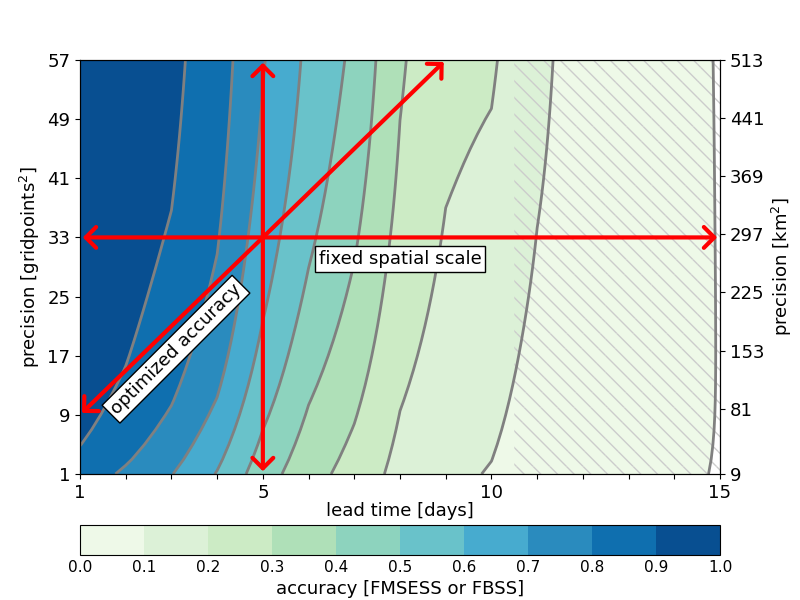
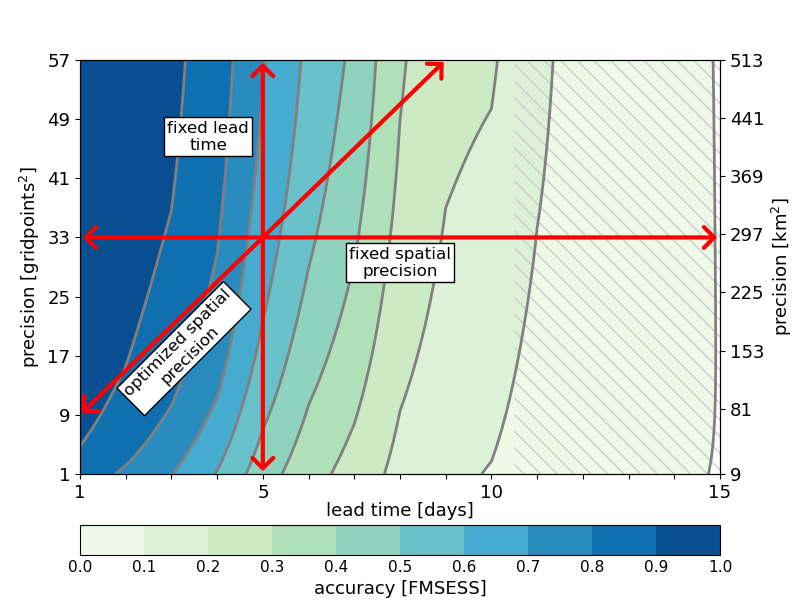
update

diff --git a/code/plot/plot-fig-05.py b/code/plot/plot-fig-05.py
@@ -76,11 +76,14 @@ ax.annotate("", xy=(1, 33), xytext=(15, 33),arrowprops=dict(arrowstyle="<->,head
 ax.annotate("", xy=(5, 1), xytext=(5, 57),arrowprops=dict(arrowstyle="<->,head_length=0.75,head_width=0.75",linewidth=3, color='red'))
 ax.annotate("", xy=(1, 9), xytext=(9, 57),arrowprops=dict(arrowstyle="<->,head_length=0.75,head_width=0.75",linewidth=3, color='red'))
 
-fig.text(0.5, 0.56, 'fixed spatial scale',horizontalalignment='center',bbox=dict(boxstyle='square,pad=.2',
-                                                                                facecolor='w', edgecolor='k'),color='k',fontsize=fontsize+2)
+fig.text(0.5, 0.54, 'fixed spatial\nprecision',horizontalalignment='center',
+         bbox=dict(boxstyle='square,pad=.2',facecolor='w', edgecolor='k'),color='k',fontsize=fontsize+1)
 
-fig.text(0.22, 0.31, 'optimized accuracy',rotation=45,horizontalalignment='center',bbox=dict(boxstyle='square,pad=.2',
-	                                                                        facecolor='w', edgecolor='k'),color='k',fontsize=fontsize+2)
+fig.text(0.23, 0.32,'optimized spatial\nprecision',rotation=45,
+         horizontalalignment='center',bbox=dict(boxstyle='square,pad=.2',facecolor='w', edgecolor='k'),color='k',fontsize=fontsize+1)
+
+fig.text(0.26, 0.75, 'fixed lead\ntime',horizontalalignment='center',
+         bbox=dict(boxstyle='square,pad=.2',facecolor='w', edgecolor='k'),color='k',fontsize=fontsize+1)
 
 fig.subplots_adjust(right=0.9, left=0.1,top=0.9,bottom=0.21)
 
@@ -88,7 +91,7 @@ cb1_ax = fig.add_axes([0.1, 0.075, 0.8, 0.05])
 cb1    = fig.colorbar(p1, cax=cb1_ax, orientation='horizontal',ticks=clevs_score, pad=0.025)
 cb1.ax.tick_params(labelsize=fontsize, size=0) 
 cb1.ax.yaxis.set_label_position('right') 
-cb1.set_label('accuracy [FMSESS or FBSS]',
+cb1.set_label('accuracy [FMSESS]',
               fontsize=fontsize+2)
 
 # write2file
